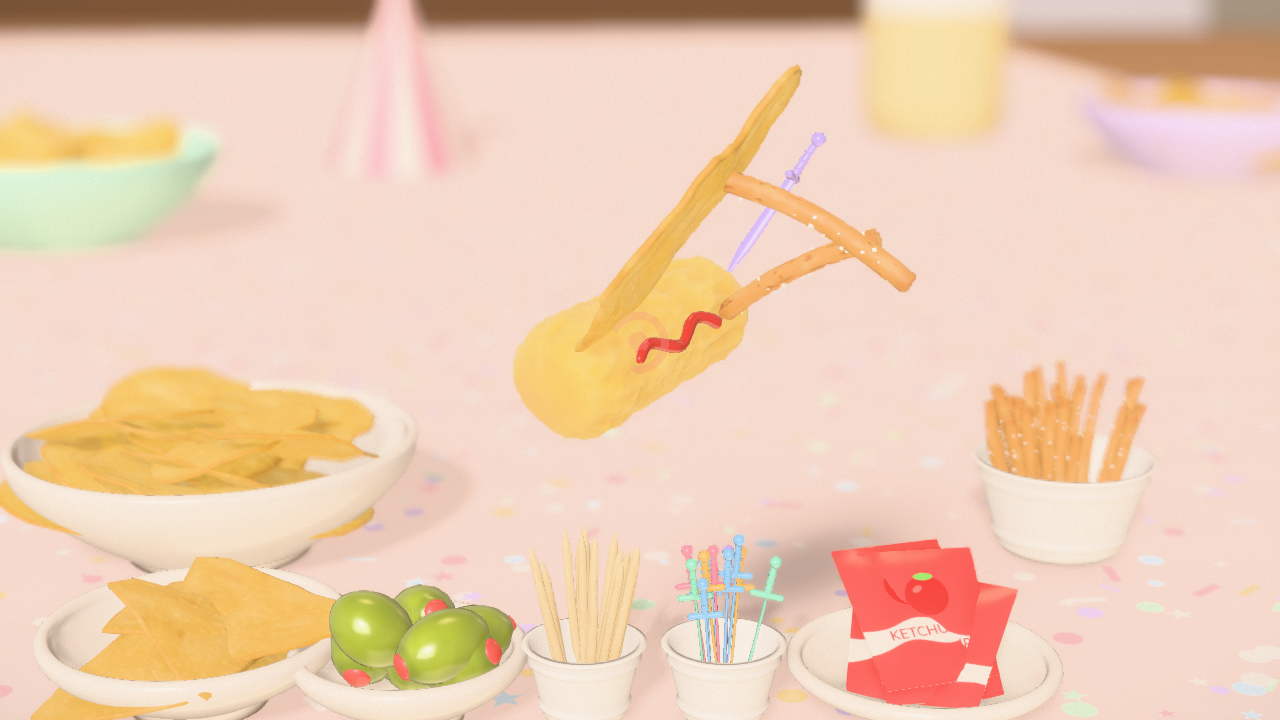
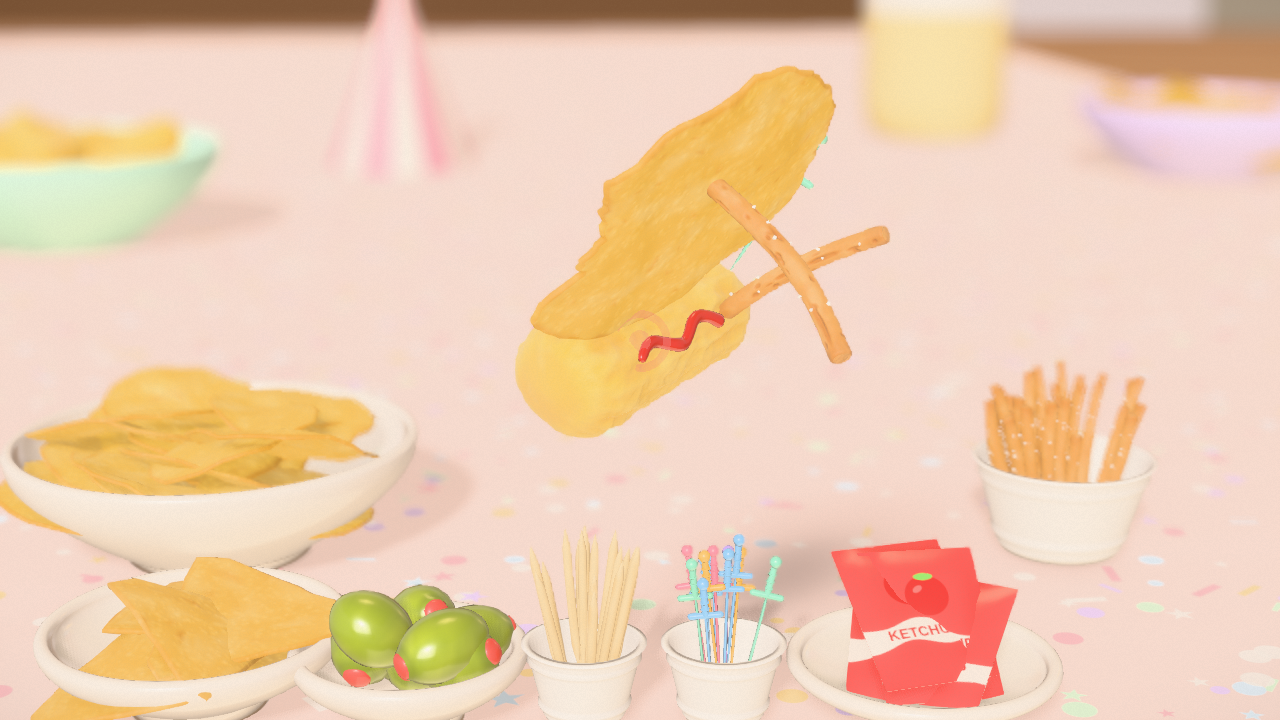
Fase 4: avisos de carga más claros; capturas y criatura de ejemplo
Claude-Session: https://claude.ai/code/session_013sTMCsEZoGqt3qcvXveZud

Changed region(s): [[0.4062, 0.0917, 0.7188, 0.5194], [0.6875, 0.8556, 0.75, 0.8861]]

diff --git a/src/persistence/CreatureFile.ts b/src/persistence/CreatureFile.ts
@@ -140,6 +140,7 @@ export function fromCreatureFile(json: unknown, pieces: PieceRegistry): { snapsh
   const out: PieceData[] = [];
   let count = 0;
   let dropped = 0;
+  let overLimit = 0;
   // Orden padre → hijo; si viniera desordenado, se reintenta hasta que no avance.
   let pending = list.slice();
   for (let pass = 0; pass < 64 && pending.length; pass++) {
@@ -160,7 +161,7 @@ export function fromCreatureFile(json: unknown, pieces: PieceRegistry): { snapsh
       }
       const isPiece = pieces.get(d.type).frame !== 'free';
       if (isPiece && count >= CONFIG.creature.maxPieces) {
-        dropped++;
+        overLimit++;
         continue;
       }
       if (isPiece) count++;
@@ -173,8 +174,8 @@ export function fromCreatureFile(json: unknown, pieces: PieceRegistry): { snapsh
     }
     pending = next;
   }
-  if (dropped) warnings.push(`${dropped} pieza${dropped === 1 ? '' : 's'} no se pudo cargar`);
-  if (count >= CONFIG.creature.maxPieces && list.length > out.length) warnings.push(`tope de ${CONFIG.creature.maxPieces} piezas`);
+  if (dropped) warnings.push(dropped === 1 ? '1 pieza no se pudo cargar' : `${dropped} piezas no se pudieron cargar`);
+  if (overLimit) warnings.push(`${overLimit} pieza${overLimit === 1 ? '' : 's'} de más (el tope es ${CONFIG.creature.maxPieces})`);
 
   return {
     snapshot: { pieces: out, front, up, rootSeed: cr.root.seed },
